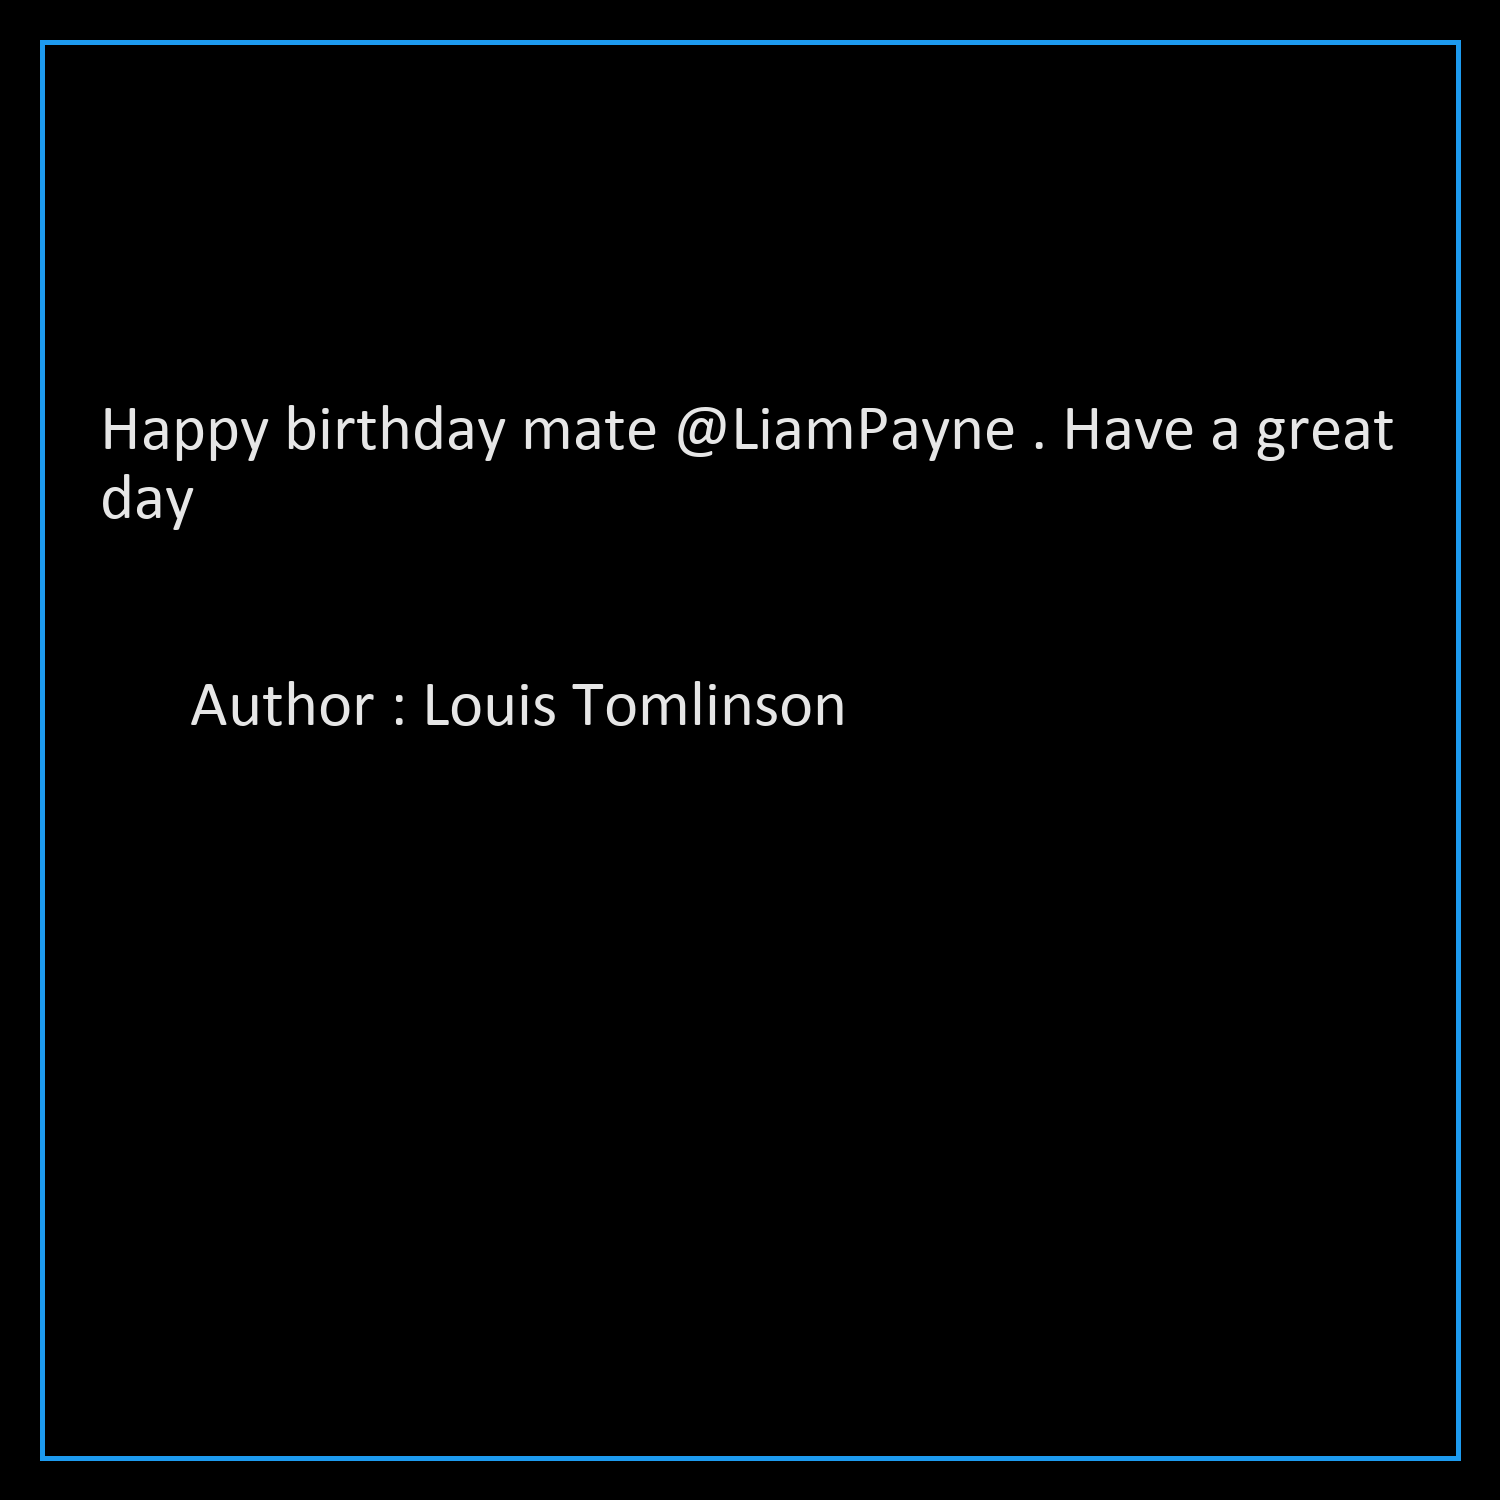
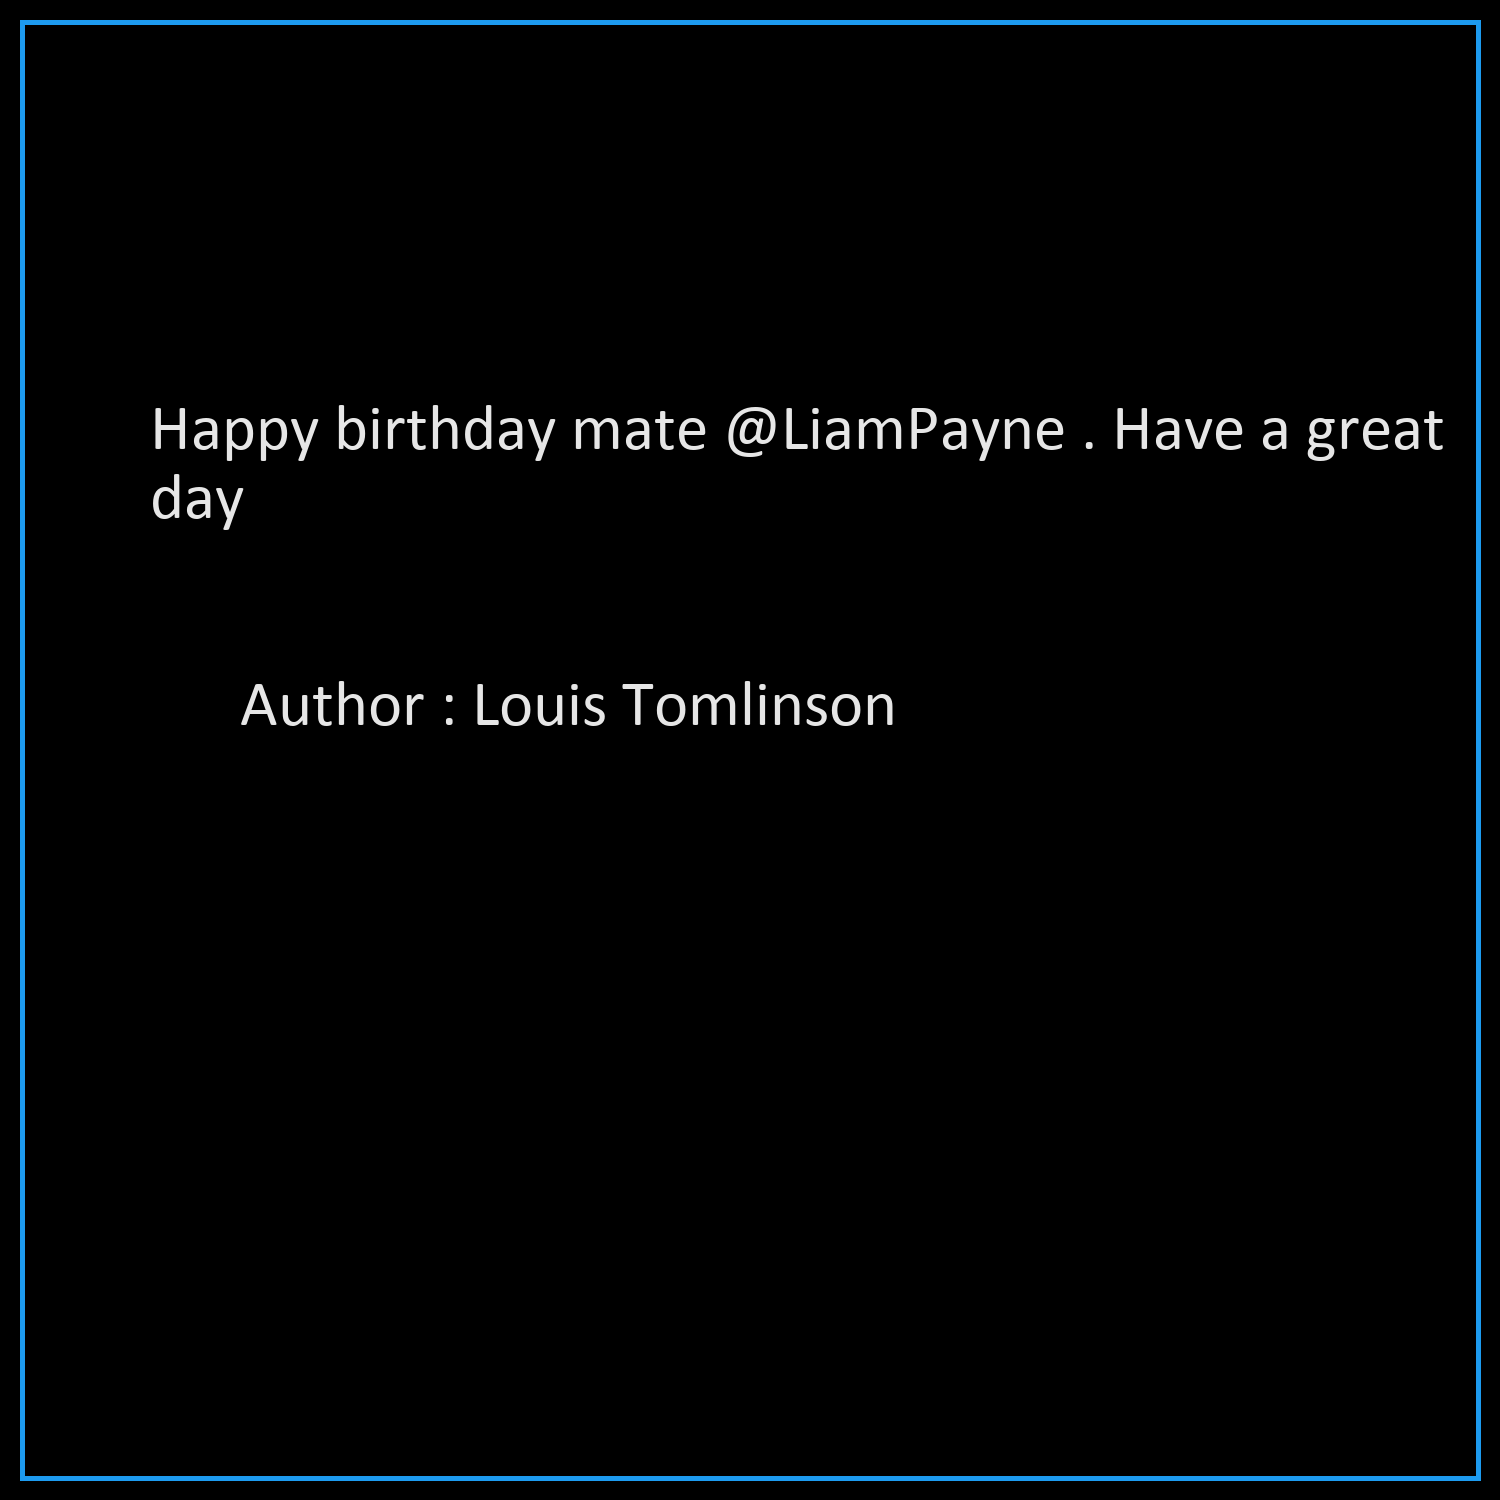
Upgrade css and html code

Changed region(s): [[0.0, 0.0, 1.0, 1.0], [0.1227, 0.46, 0.6133, 0.4907]]

diff --git a/source/static/stylesheet/index.css b/source/static/stylesheet/index.css
@@ -8,8 +8,7 @@ body{
 }
 
 .headerTitle{
-    text-align: center;
-    
+    text-align: center;    
 }
 
 .headerName{
@@ -28,6 +27,7 @@ body{
 }
 
 .settingsPopup {
+    text-align: center;
     display: none; 
     position: fixed;
     z-index: 1;
@@ -43,12 +43,71 @@ body{
   /* Modal Content/Box */
 .settingsContent {
     background-color: #fefefe;
+    color : black;
     margin: 15% auto;
     padding: 20px;
     border: 1px solid #888;
-    width: 80%; 
+    width: 20%; 
 }
-  
+
+.headerLogo{
+    width: 10%;
+    display: block;
+    margin-left: auto;
+    margin-right: auto;
+    margin-top: 5%;
+    margin-bottom: 5%;
+}
+
+.buttonSettings {
+    border-radius: 5ch;
+    border-width: 0;
+    background-color: #1a8cd8;
+    font-size: 20px;   
+    color: #fefefe; 
+    width: 80%;
+    height: 100%;
+}
+
+.buttonClass {
+    margin-left: 95%;
+}
+
+.settingsTitle {
+    font-size: 30px;
+    color : #1a8cd8;
+}
+
+.settingsCategory {
+    font-size : 24px;
+    font-style: italic;
+}
+
+.darkButton {
+    border-width: 0;
+    border-radius: 1ch;
+    font-size: 18px;
+    color : white;
+    background-color: #000000;
+}
+
+.blueButton {
+    border-width: 0;
+    border-radius: 1ch;
+    font-size: 18px;
+    color : white;
+    background-color: #1a8cd8;
+}
+
+.whiteButton {
+    border-width: 0.1px;
+    border-radius: 1ch;
+    font-size: 18px;
+    color : black;
+    background-color: #fefefe;
+}
+
+
   /* The Close Button */
 /* .close {
     color: #aaa;

diff --git a/source/templates/index.html b/source/templates/index.html
@@ -8,15 +8,29 @@
         
     </head>
     <body>
+    
+        <div class = "buttonClass">
+            <button id = "buttonSettings" class = "buttonSettings">Settings</button>            
+        </div>
+        
         <h1 class = "headerTitle">What's happen on Twitter with one picture</h1>
+
         <h2 class = "headerName">Top Tweet Bot</h2>
-        <img class = "headerPicture" src ="{{today_post}}">
-        <button id = "buttonSettings">Test</button>
+
+        <img class = "headerLogo" src = "{{ url_for('static', filename='content/favicon.ico') }}">
+        <img class = "headerPicture" src ="{{today_post}}">        
+
         <div id = "settingsPopup" class = "settingsPopup">
             <div class = "settingsContent">
-                <p>Settings</p>
+                <p class = "settingsTitle">Settings</p>
+                <p class = "settingsCategory">Color Theme</p>
+                <button class = "darkButton" onclick = "setDarkMode()">Dark Mode</button>
+                <button class = "blueButton" onclick = "setBlueMode()">Blue Mode</button>
+                <button class = "whiteButton" onclick = "setWhiteMode()">White Mode</button>
             </div>
         </div>
         <script src={{ url_for('static', filename='scripts/settings.js')}}></script>
+
+
     </body>
 </html>

diff --git a/source/static/scripts/settings.js b/source/static/scripts/settings.js
@@ -11,3 +11,6 @@ window.onclick = function(event) {
         settingsPopup.style.display = "none";
     }
 }
+
+
+

diff --git a/source/text_to_image.py b/source/text_to_image.py
@@ -13,7 +13,7 @@ def text_to_image(text, image = None) :
         with Pilmoji(img) as pilmoji :
             pilmoji.text((175,175), text, font = fnt, fill = (255,255,255))
         
-        shape = [(40, 40), (1460, 1460)]
+        shape = [(20, 20), (1480, 1480)]
         rectangle_draw = ImageDraw.Draw(img)
         rectangle_draw.rectangle(shape, outline="#1d9bf0", width=5)
 
@@ -31,9 +31,9 @@ def text_to_image(text, image = None) :
         fnt =  ImageFont.truetype("font/Calibri_Regular.ttf", 65)
 
         with Pilmoji(img) as pilmoji :
-            pilmoji.text((200,400), text, font = fnt, fill = (230,230,230))
+            pilmoji.text((150,400), text, font = fnt, fill = (230,230,230))
         
-        shape = [(40, 40), (1460, 1460)]
+        shape = [(20, 20), (1480, 1480)]
         rectangle_draw = ImageDraw.Draw(img)
         rectangle_draw.rectangle(shape, outline="#1d9bf0", width=5)
 

diff --git a/app.py b/app.py
@@ -1,5 +1,5 @@
 from source.views import app
 
 if __name__ == "__main__" :
-    app.run(debug=True)
+      app.run(debug=True)
     
